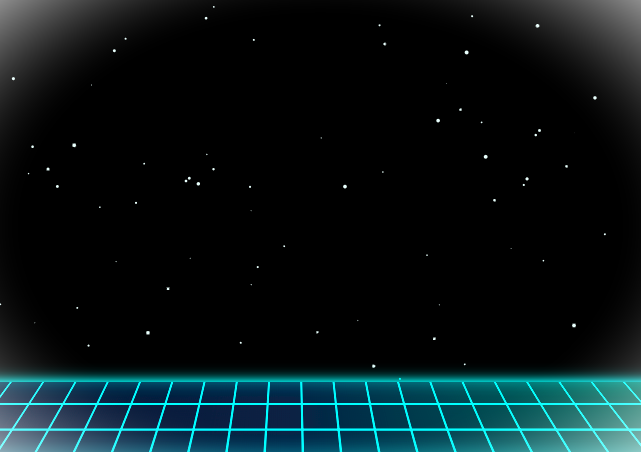
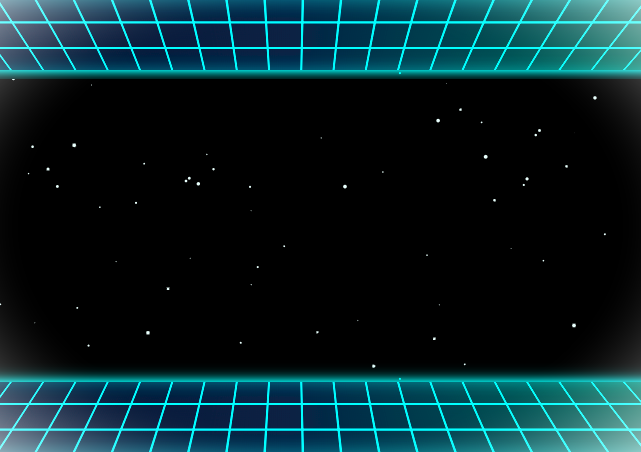
some css fixes for mobile

Changed region(s): [[0.0, 0.0, 1.0, 0.1858]]

diff --git a/wwwroot/css/Misc/index.css b/wwwroot/css/Misc/index.css
@@ -38,14 +38,14 @@
 
 .striped-list {
     list-style: none;
-    padding-left: 15px;
+    padding-left: 8px;
 }
 
 .striped-list li {
     font-size: var(--text-m);
     padding: 2px 15px;
     margin-bottom: 2px;
-    width: 80%;
+    width: 100%;
     color: var(--color-text);
     font-weight: var(--fw-bold);
     background: rgba(255,255,255,.03);
@@ -63,6 +63,20 @@
 
 .striped-list li:nth-child(even) {
     border-left-color: var(--color-accent);
+}
+
+@media (min-width:992px) {
+    .striped-list li {
+        font-size: var(--text-m);
+        padding: 2px 15px;
+        margin-bottom: 2px;
+        width: 80%;
+        color: var(--color-text);
+        font-weight: var(--fw-bold);
+        background: rgba(255,255,255,.03);
+        border-left: 3px solid var(--color-primary);
+        text-shadow: 0 2px 4px rgba(0,0,0,.95), 0 4px 12px rgba(0,0,0,.85);
+    }
 }
 
 /*-----------------DOCKER--------------------------------------*/
@@ -92,23 +106,6 @@
     filter: drop-shadow(0 0 0px #00ffff) drop-shadow(0 0 0px #00ffff);
 }
 
-@media (min-width:992px) {
-    .containers {
-        flex-direction: row;
-        align-items: center;
-    }
-
-    .laser {
-        width: 100%;
-        height: auto;
-    }
-
-    .laser::before {
-        width: 100%;
-        height: 3px;
-    }
-}
-
 .container-1,
 .container-2 {
     text-align: center;
@@ -133,4 +130,21 @@
     padding: 20px;
     width: 100%;
     background-color: var(--color-bg);
+}
+
+@media (min-width:992px) {
+    .containers {
+        flex-direction: row;
+        align-items: center;
+    }
+
+    .laser {
+        width: 100%;
+        height: auto;
+    }
+
+        .laser::before {
+            width: 100%;
+            height: 3px;
+        }
 }

diff --git a/wwwroot/css/Themes/matrix.css b/wwwroot/css/Themes/matrix.css
@@ -43,8 +43,8 @@
     --color-danger: #ff4d4d;
     --color-info: #33ff99;
     /* GRADIENTS */
-    --gradient-primary: linear-gradient( 135deg, #00ff66 0%, #00c851 75%,transparent 85% );
-    --gradient-accent: linear-gradient( 135deg, #003d14 0%, #00ff66 80%, transparent 80% );
-    --gradient-hero: linear-gradient( 135deg, #001a00 0%, #00ff66 50%, #b3ffd1 100% );
-    --gradient-surface: linear-gradient( 135deg, rgba(0,255,100,.08) 0%, rgba(0,255,100,.02) 100% );
+    --gradient-primary: linear-gradient( 120deg, #00ff66 0%, #00ff66 30%, #00c851 85%, transparent 100% );
+    --gradient-accent: linear-gradient( 155deg, #003d14 0%, #003d14 35%, #00ff66 100% );
+    --gradient-hero: linear-gradient( 125deg, #001a00 0%, #00ff66 55%, #b3ffd1 100% );
+    --gradient-surface: linear-gradient( 145deg, rgba(255,255,255,.03) 0%, transparent 25% ), linear-gradient( 155deg, rgba(0,255,100,.08) 0%, rgba(0,255,100,.02) 100% );
 }

diff --git a/wwwroot/css/Themes/starfleet.css b/wwwroot/css/Themes/starfleet.css
@@ -43,8 +43,8 @@
     --color-danger: #ef4444;
     --color-info: #8cb4ff;
     /* GRADIENTS */
-    --gradient-primary: linear-gradient(135deg,#ff8c50 0%,#8cb4ff 75%,transparent 85%);
-    --gradient-accent: linear-gradient(135deg,#30234d 0%,#8cb4ff 80%, transparent 80%);
-    --gradient-hero: linear-gradient(135deg,#120e18 0%,#ff8c50 50%,#8cb4ff 100%);
-    --gradient-surface: linear-gradient(135deg,rgba(255,140,80,.08) 0%,rgba(140,180,255,.04) 100%);
+    --gradient-primary: linear-gradient( 120deg, #ff8c50 0%, #ff8c50 25%, #8cb4ff 85%, transparent 100% );
+    --gradient-accent: linear-gradient( 155deg, #30234d 0%, #30234d 35%, #8cb4ff 100% );
+    --gradient-hero: linear-gradient( 125deg, #120e18 0%, #ff8c50 55%, #8cb4ff 100% );
+    --gradient-surface: linear-gradient( 145deg, rgba(255,255,255,.04) 0%, transparent 25% ), linear-gradient( 155deg, rgba(255,140,80,.08) 0%, rgba(140,180,255,.04) 100% );
 }

diff --git a/wwwroot/css/Themes/alien-tech.css b/wwwroot/css/Themes/alien-tech.css
@@ -43,8 +43,8 @@
     --color-danger: #ef4444;
     --color-info: #00ffdc;
     /* GRADIENTS */
-    --gradient-primary: linear-gradient(135deg,#00ffdc 0%,#ffbe00 75%, transparent 85%);
-    --gradient-accent: linear-gradient(135deg,#082323 0%,#ffbe00 80%, transparent 80%);
-    --gradient-hero: linear-gradient(135deg,#021212 0%,#00ffdc 50%,#ffbe00 100%);
-    --gradient-surface: linear-gradient(135deg,rgba(0,255,220,.08) 0%,rgba(255,190,0,.03) 100%);
+    --gradient-primary: linear-gradient( 120deg, #00ffdc 0%, #00ffdc 25%, #ffbe00 85%, transparent 100% );
+    --gradient-accent: linear-gradient( 155deg, #082323 0%, #082323 35%, #ffbe00 100% );
+    --gradient-hero: linear-gradient( 125deg, #021212 0%, #00ffdc 55%, #ffbe00 100% );
+    --gradient-surface: linear-gradient( 145deg, rgba(255,255,255,0.04) 0%, transparent 25% ), linear-gradient( 155deg, rgba(0,255,220,.08) 0%, rgba(255,190,0,.03) 100% );
 }

diff --git a/wwwroot/css/Themes/sci-fi.css b/wwwroot/css/Themes/sci-fi.css
@@ -76,7 +76,7 @@
     --radius-xl: 32px;
     /*GRADIENTS*/
     --gradient-primary: linear-gradient(135deg,#1dcd9f 0%,#7858a6 75%,transparent 85%);
-    --gradient-accent: linear-gradient(135deg,#371b58 0%,#1dcd9f 80%, transparent 80%);
+    --gradient-accent: linear-gradient( 155deg, #371b58 0%, #1dcd9f 100% );
     --gradient-hero: linear-gradient(135deg,#1dcd9f 0%,#7858a6 100%);
-    --gradient-surface: linear-gradient(135deg, rgba(39, 36, 36, 0.1) 0%, rgba(22, 22, 22) 75%, transparent 75%);
+    --gradient-surface: linear-gradient( 135deg, rgba(255,255,255,0.08) 0%, transparent 35% );
 }

diff --git a/wwwroot/js/site.js b/wwwroot/js/site.js
@@ -52,7 +52,7 @@ cookieSettings.addEventListener('click', () => {
 })
 
 function drawStars() {
-    for (let i = 0; i < 380; i++) {
+    for (let i = 0; i < 100; i++) {
         const x = Math.random() * canvas.width;
         const y = Math.random() * canvas.height;
 

diff --git a/wwwroot/css/Navbars/mobile-nav.css b/wwwroot/css/Navbars/mobile-nav.css
@@ -6,7 +6,7 @@
 
 .mobile-nav-btn {
     height: 50px;
-    margin-left: 25px;
+    margin-left: 5px;
     background-color: var(--color-bg);
     cursor: pointer;
     border: none;

diff --git a/wwwroot/css/Sections/hero.css b/wwwroot/css/Sections/hero.css
@@ -11,7 +11,7 @@
 }
 
 .hero-text h1 {
-    font-size: clamp(2rem, 6vw, 4rem);
+    font-size: clamp(2.3rem, 6vw, 4rem);
 }
 
 .hero-image-large {

diff --git a/wwwroot/css/Misc/containers.css b/wwwroot/css/Misc/containers.css
@@ -1,7 +1,6 @@
 .container {
     margin: 0 auto;
     width: calc(100vw - 70px);
-    padding: 0 10px;
 }
 
 @media (min-width:576px) {

diff --git a/wwwroot/css/Misc/links.css b/wwwroot/css/Misc/links.css
@@ -7,7 +7,6 @@
 
 .green-link {
     color: #22c55e;
-    margin-left: 10px;
 }
 
 .green-link-xl {

diff --git a/Data/Seeders/SciFiPageSeeder.cs b/Data/Seeders/SciFiPageSeeder.cs
@@ -26,7 +26,7 @@ namespace SciFiPortfolio.Data.Seeders
             {
                 sciFiPort = new PageEntity
                 {
-                    Title = "Sci-fi Portfolio",
+                    Title = "",
                     Slug = "sci-fi-portfolio",
                     Published = true,
                     PublishedDate = DateTime.UtcNow
@@ -53,7 +53,7 @@ namespace SciFiPortfolio.Data.Seeders
                             {
                                 new HeroSection
                                 {
-                                    Heading = "Portfolio",
+                                    Heading = "Sci-fi Portfolio",
                                     SubHeading = "Razor pages / Cms",
                                     TextColor = "sci-fi-glow",
                                 },
@@ -300,7 +300,7 @@ namespace SciFiPortfolio.Data.Seeders
                                     [
                                         new()
                                         {
-                                            Text = "Sedan renderas bilden på rätt plats i vyn, i detta fallet så är det en topp/bottnen placering (kunde ha gjort detta enklare med bara css-klasser...men detta får vara just nu)."
+                                            Text = "Sedan renderas bilden på rätt plats i vyn, i detta fallet så är det en topp/bottnen placering."
                                         }
                                     ],
                                     ImagesRight =

diff --git a/Data/Seeders/ReceptakutenFrontendPageSeeder.cs b/Data/Seeders/ReceptakutenFrontendPageSeeder.cs
@@ -54,6 +54,7 @@ namespace SciFiPortfolio.Data.Seeders
                                 new HeroSection
                                 {
                                     Heading = "Receptakuten",
+                                    SubHeading = "Frontend",
                                     TextColor = "sci-fi-glow",
                                 },
                                 new TextSection
@@ -373,7 +374,8 @@ namespace SciFiPortfolio.Data.Seeders
                                         },
                                     },
                                     BackgroundColorCss = "section-bg",
-                                    BordersCss = "border-all border-primary"
+                                    BordersCss = "border-all border-primary",
+                                    SpaceBottom = false,
                                 },
                             }
                         }
